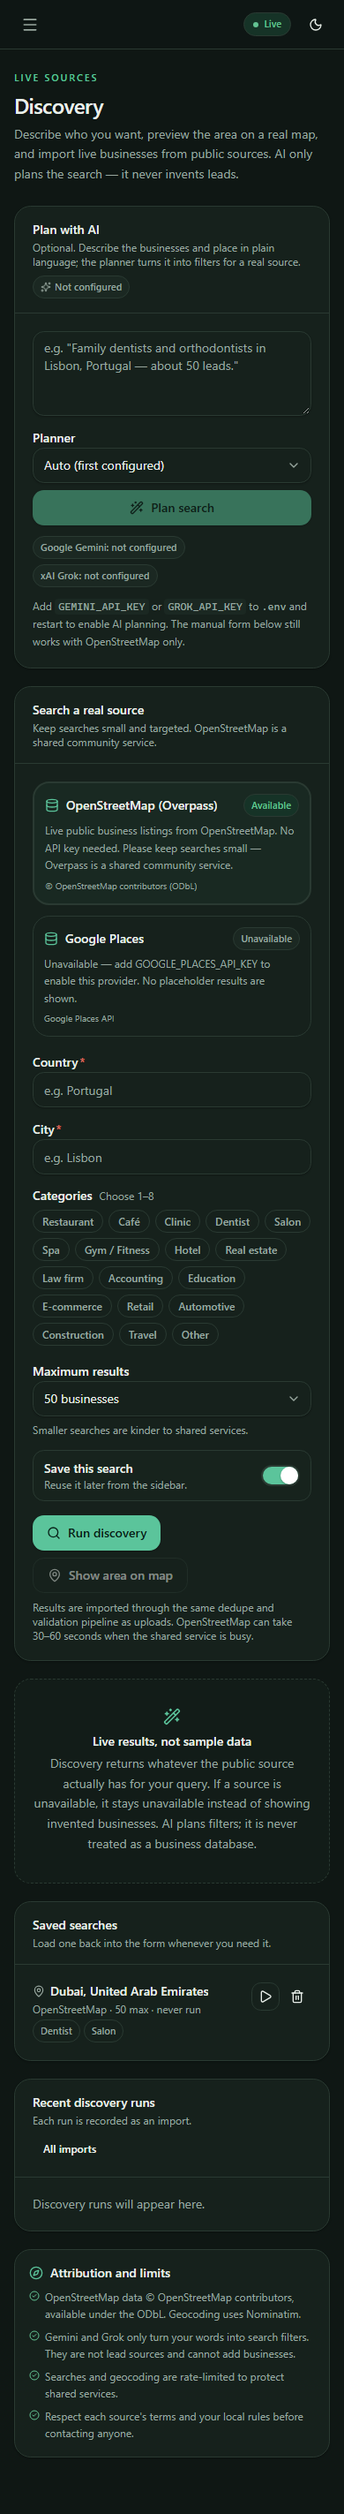
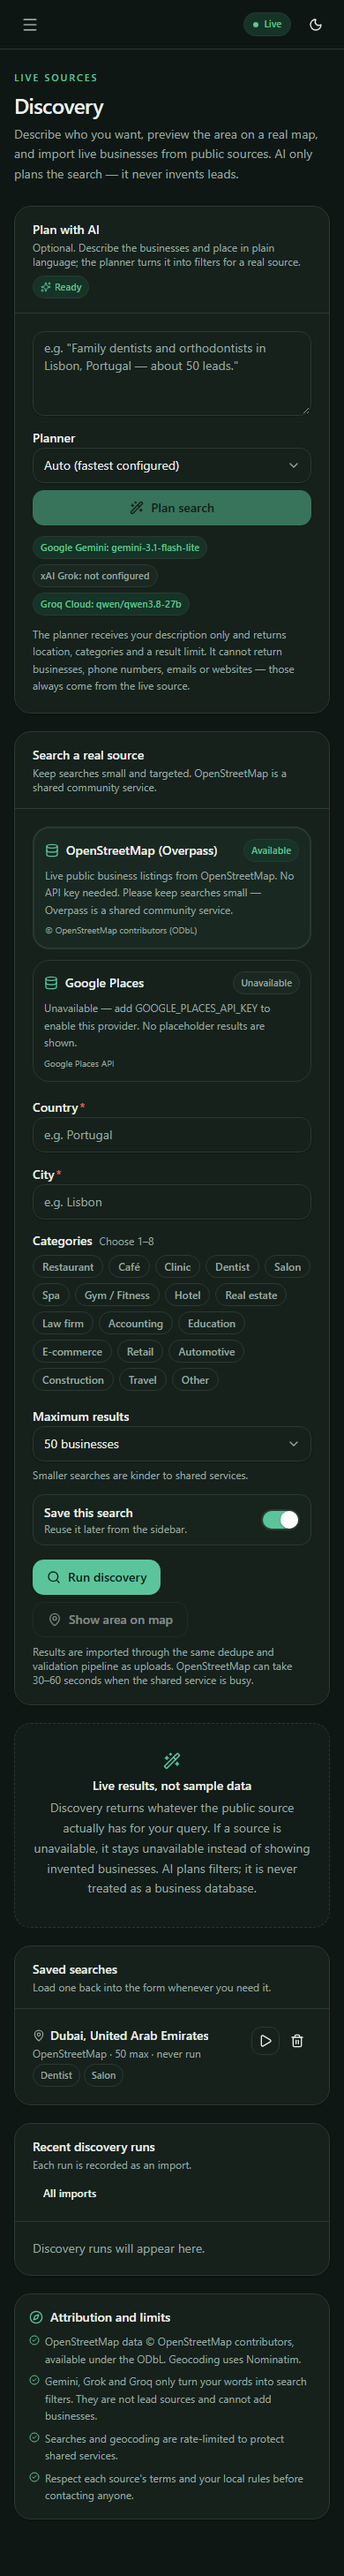
docs: cover Groq planner, model churn and refreshed screenshots
- document Gemini/Grok/Groq roles, auto order, fallback and env variables
- record the retired Gemini model, 503s and account-specific Groq model list
- update gate/test counts and regenerate 60 responsive screenshots

diff --git a/docs/PROGRESS.md b/docs/PROGRESS.md
@@ -17,13 +17,13 @@ Final result on 2026-11-04:
 | --- | --- |
 | `pnpm typecheck` | Pass (no output) |
 | `pnpm lint` | Pass, 0 errors. One non-blocking React Compiler warning for TanStack Table's `useReactTable` |
-| `pnpm test` | Pass — 10 files, 130 tests |
+| `pnpm test` | Pass — 10 files, 132 tests |
 | `pnpm build` | Pass — 41 app paths compiled |
 | `pnpm exec playwright test` | Pass — 16 tests (1 setup + 15 Chromium) |
 | Screenshots | 60 PNGs at 1440/1024/390, light/dark |
 | Live discovery | Overpass retry/cache path exercised; honest 502 message verified when the public service was at capacity |
 | Live map | Nominatim geocode returned Lisbon bounds; Leaflet loaded OSM tiles with no console errors |
-| AI planner | Correct 409 unavailable state with no keys; mocked Gemini request/response covered by tests |
+| AI planner | Live Gemini (`gemini-3.1-flash-lite`, 1.3–22.6s across calls) and Groq (`qwen/qwen3.8-27b`, 0.3–0.6s) returned validated filters; auto mode resolved in 0.3s via Groq; fallback/no-key paths covered by tests |
 
 ## Phases
 
@@ -40,7 +40,7 @@ Final result on 2026-11-04:
 | 8 | Discovery, export, events, settings, worker: OSM provider, Google availability state, CSV export, SSE, scan/import/score jobs | typecheck; production acceptance run |
 | 9 | UI: app shell, dashboard, leads, lead detail, duplicates, imports, discovery, scans, settings, scoring, login/setup | typecheck/lint; responsive review; screenshots |
 | 10 | Tests, acceptance, docs, demo seed, screenshots, git history | full gate + Playwright + acceptance |
-| 11 | Discovery resilience and AI/map: Overpass retries/fallback/cache, Gemini and Grok filter planners, Nominatim geocoding, Leaflet result map | full gate + live geocode/map check + honest upstream-failure check |
+| 11 | Discovery resilience and AI/map: Overpass retries/fallback/cache, Gemini, xAI Grok and Groq filter planners, Nominatim geocoding, Leaflet result map | full gate + live planner/geocode/map checks + honest upstream-failure check |
 
 ## Acceptance run
 
@@ -60,7 +60,7 @@ running and a freshly seeded demo workspace. Results from the API-level acceptan
 | Scans | 6 listed, outcomes `success` and `partial` |
 | Scoring profile | Active profile maximum exactly 100 |
 | Discovery providers | `osm:available`, `google_places:unavailable` (no key configured) |
-| AI planners | `gemini:unavailable`, `grok:unavailable` (no keys); `POST /api/discovery/plan` returns an honest 409 |
+| AI planners | Live with configured keys: Gemini (`gemini-3.1-flash-lite`) and Groq (`qwen/qwen3.8-27b`) returned validated filters; xAI Grok remains unconfigured; the no-key 409 path stays covered by tests |
 | Geocoding | `GET /api/discovery/geocode?q=Lisbon, Portugal` returned 200 with bounds and two matches |
 | Map | Leaflet container loaded 8 OSM tiles; no browser console errors |
 | Overpass failure path | Public server returned 502 "at capacity"; the app reported attempts, mirror hint and no saved rows |
@@ -74,7 +74,7 @@ demo workspace deterministic. No acceptance data was written to a real workspace
 
 | Suite | Files | Tests | Notes |
 | --- | --- | --- | --- |
-| Vitest | 10 | 130 | Unit + integration against real PostgreSQL for isolation |
+| Vitest | 10 | 132 | Unit + integration against real PostgreSQL for isolation |
 | Playwright | 9 specs | 16 | 1 auth setup, 15 browser tests |
 
 Vitest files:
@@ -87,8 +87,8 @@ Vitest files:
 - `tests/fetch.test.ts` — robots, timeouts, pinned DNS, fixture server behaviour
 - `tests/import.test.ts` — CSV/TSV/GeoJSON/ZIP parsing and archive safety
 - `tests/discovery.test.ts` — Overpass retry, remark errors, cache and honest failure
-- `tests/planner.test.ts` — category aliases, plan validation, Gemini request shape,
-  unconfigured-planner behaviour, Nominatim parsing
+- `tests/planner.test.ts` — category aliases, plan validation, Gemini and Groq request
+  shapes, auto-mode fallback, unconfigured-planner behaviour, Nominatim parsing
 - `tests/isolation.test.ts` — workspace isolation, dedupe-by-host, scan-outcome filter,
   merge/undo preservation
 
@@ -191,6 +191,23 @@ has no business/contact fields. Unsupported categories are dropped with a visibl
 missing locations are rejected, and Google Places plans fall back to OpenStreetMap when no
 key is configured. The models never generate rows in the lead table.
 
+### AI planner model names changed under us
+
+The first live Gemini call failed with HTTP 404: `gemini-2.5-flash` is retired for new
+keys and the API recommended `gemini-3.8-flash`. That newer model, plus `gemini-3.7-flash`,
+`gemini-3.6-flash`, `gemini-3.5-flash` and `gemini-flash-latest`, were returning 503
+"high demand" or taking over a minute during the check, so the default became
+`gemini-3.1-flash-lite`, which returned valid JSON. Its latency still varied a lot across
+calls (1.3–22.6 seconds), which is why `auto` prefers Groq. All model names stay
+environment-configurable.
+
+The supplied "Groq" key (`gsk_...`) is Groq Cloud, not xAI Grok (`xai-...`). Groq is now a
+third first-class planner using its OpenAI-compatible endpoint. Its account did not expose
+`llama-3.3-70b-versatile`; `qwen/qwen3.8-27b` answered in about 0.3 seconds, so that is the
+default. In `auto` mode the app now tries Groq first for speed, then Gemini and Grok, and
+falls back to the next configured planner when one fails and shows a fallback note in the
+plan, rather than making the user retry manually.
+
 ### Map integration and CSP
 
 Leaflet is imported only in the browser and uses vector circle markers, so no marker image
@@ -212,8 +229,8 @@ confirmed 8 tiles loaded with no console errors.
   owner workspace stays clean.
 - `db:reset` requires explicit confirmation and refuses production.
 - The app name comes from `NEXT_PUBLIC_APP_NAME`, default `Lead Finder`.
-- Gemini/Grok are search planners only. Real leads always come from Overpass or Google
-  Places; the planner schema cannot carry business records.
+- Gemini, xAI Grok and Groq are search planners only. Real leads always come from Overpass
+  or Google Places; the planner schema cannot carry business records.
 - Public Overpass reliability is outside the app's control, so the app retries, falls back
   to configured mirrors, caches and reports failures honestly instead of inventing data.
 - `leaflet` is the only new runtime dependency for maps; tiles come directly from

diff --git a/README.md b/README.md
@@ -18,10 +18,10 @@ human reviews and works through.
 - **Import** CSV, TSV, GeoJSON and ZIP uploads with column mapping, preview, row-level
   error reporting, duplicate detection, undo-safe merges and cancellation.
 - **Discover** businesses from OpenStreetMap (Overpass API) and, when a key is present,
-  Google Places. Optional Gemini or Grok planning turns plain language into validated
-  search filters — the models never supply leads. A Leaflet/OpenStreetMap map previews the
-  search area and plots real result coordinates. Providers are honest about availability;
-  there are no placeholder results.
+  Google Places. Optional Gemini, xAI Grok or Groq planning turns plain language into
+  validated search filters — the models never supply leads. A Leaflet/OpenStreetMap map
+  previews the search area and plots real result coordinates. Providers are honest about
+  availability; there are no placeholder results.
 - **Scan** public websites with a hardened fetcher: SSRF/DNS-rebinding protection,
   redirect re-validation, `robots.txt` checks, per-host politeness delays, timeouts, body
   size caps and a fixed user agent.
@@ -144,8 +144,9 @@ All variables are documented in [`.env.example`](.env.example). The most importa
 | `OVERPASS_CACHE_MINUTES` | `60` | In-memory cache for identical queries |
 | `GOOGLE_PLACES_API_KEY` | empty | Empty means the provider reports unavailable |
 | `GEOCODE_USER_AGENT` | scanner UA | Set a real contact for Nominatim in production |
-| `GEMINI_API_KEY` / `GEMINI_MODEL` | empty / `gemini-2.5-flash` | Optional AI search planner |
-| `GROK_API_KEY` / `GROK_MODEL` | empty / `grok-4` | Optional AI search planner |
+| `GEMINI_API_KEY` / `GEMINI_MODEL` | empty / `gemini-3.1-flash-lite` | Optional AI search planner |
+| `GROK_API_KEY` / `GROK_MODEL` | empty / `grok-4` | Optional xAI Grok planner |
+| `GROQ_API_KEY` / `GROQ_MODEL` | empty / `qwen/qwen3.8-27b` | Optional Groq Cloud planner (not xAI Grok) |
 | `PG_BOSS_SCHEMA` | `pgboss` | Job queue schema |
 | `LOG_LEVEL` | `info` | pino level |
 
@@ -155,8 +156,8 @@ Production startup refuses to run with the development auth secret or with
 ## Discovery, AI planning and maps
 
 Discovery has two real sources: OpenStreetMap (no key) and Google Places (key required).
-Search `/discovery` manually, or describe what you want and let Gemini/Grok produce a
-plan:
+Search `/discovery` manually, or describe what you want and let Gemini, xAI Grok or Groq
+produce a plan:
 
 1. The planner returns only `country`, `city`, categories (1–8), a result limit and a
    target provider. It has no schema fields for businesses, contacts or websites.
@@ -164,9 +165,11 @@ plan:
 3. Running the plan calls the live source, imports through the normal dedupe pipeline
    and plots returned coordinates on the OpenStreetMap map.
 
-If no AI key is set, the planner card says so and manual discovery still works. If
-Overpass is overloaded, the app retries, tries `OVERPASS_ENDPOINTS` mirrors in order and
-returns an honest error with the attempt count. Nothing is saved on failure.
+If no AI key is set, the planner card says so and manual discovery still works. `auto`
+prefers Groq for speed, then Gemini, then Grok, and transparently falls back if a planner
+fails (the plan preview shows which model was used). If Overpass is overloaded, the app
+retries, tries `OVERPASS_ENDPOINTS` mirrors in order and returns an honest error with the
+attempt count. Nothing is saved on failure.
 
 Maps use Leaflet with OpenStreetMap tiles. Geocoding uses Nominatim with a 1 request/second
 throttle and caching. Positions are source coordinates, not verified addresses. Set

diff --git a/docs/ARCHITECTURE.md b/docs/ARCHITECTURE.md
@@ -227,7 +227,7 @@ There is no generated/placeholder provider. If a source fails, the run reports t
 failure; it does not substitute fake businesses. Saved searches let a user repeat a
 query; runs are recorded and marked.
 
-### AI search planner (Gemini / Grok)
+### AI search planner (Gemini / Grok / Groq)
 
 `POST /api/discovery/plan` turns a plain-language request into validated filters:
 country, city, 1-8 category keys, a result limit and a target provider. The model
@@ -236,10 +236,15 @@ a data source: the response schema has no fields for business names, addresses, 
 emails or websites, and the app rejects anything outside the filter shape. The resulting
 filters must still be run through Overpass or Google Places.
 
-Gemini uses `GEMINI_MODEL` (default `gemini-2.5-flash`). Grok uses the OpenAI-compatible
-`GROK_BASE_URL` (default `https://api.x.ai/v1`) and `GROK_MODEL` (default `grok-4`).
-`auto` picks the first configured planner. Missing keys produce an honest unavailable
-state; manual discovery keeps working without AI.
+Gemini uses `GEMINI_MODEL` (default `gemini-3.1-flash-lite`). xAI Grok uses the
+OpenAI-compatible `GROK_BASE_URL` (default `https://api.x.ai/v1`) and `GROK_MODEL`
+(default `grok-4`). Groq Cloud is a separate provider: `GROQ_BASE_URL` (default
+`https://api.groq.com/openai/v1`) and `GROQ_MODEL` (default `qwen/qwen3.8-27b`).
+`auto` prefers Groq (fastest verified planner), then Gemini, then Grok. If a planner fails,
+auto mode tries the next configured one and puts a visible fallback note in the plan; an
+explicitly chosen planner reports its own failure instead. Missing keys produce an honest
+unavailable state; manual discovery keeps working without AI. Model names change
+frequently, so all three are environment-configurable.
 
 ### Map and geocoding
 
@@ -294,7 +299,7 @@ server. Imports and scans require it to be running.
 
 ## Test strategy
 
-- **Vitest (130 tests, 10 files):** normalisation, dedupe policy, scoring engine,
+- **Vitest (132 tests, 10 files):** normalisation, dedupe policy, scoring engine,
   extraction, SSRF/security, import/ZIP parsing, discovery retry/cache, AI plan
   validation and geocode parsing, fetcher fixture server and workspace isolation. The
   isolation file hits a real PostgreSQL database.

diff --git a/docs/KNOWN_LIMITATIONS.md b/docs/KNOWN_LIMITATIONS.md
@@ -105,10 +105,10 @@ limitation affects a user decision, the UI is expected to say so honestly.
 
 ## AI planning and maps
 
-39. **Gemini and Grok are optional planners, not data sources.** They receive the user's
-    description and return only country, city, categories, a limit and a target provider.
-    They cannot add businesses, contacts or websites. Without a key, the planner card says
-    so and manual discovery remains available.
+39. **Gemini, xAI Grok and Groq are optional planners, not data sources.** They receive
+    the user's description and return only country, city, categories, a limit and a target
+    provider. They cannot add businesses, contacts or websites. Without a key, the planner
+    card says so and manual discovery remains available.
 40. **Plans can be imperfect.** The app validates and normalises the model's output
     (category aliases, 1–8 categories, 1–200 results) and rejects missing locations, but a
     plan may still be too broad or miss a niche category. Review the filters before
@@ -127,6 +127,12 @@ limitation affects a user decision, the UI is expected to say so honestly.
 44. **Google Places result caps apply.** Text Search returns at most 20 places per request;
     the app does not paginate for more. Its terms and billing are the key owner's
     responsibility.
+45. **AI model names and availability change.** Gemini retired `gemini-2.5-flash` for new
+    keys during this build, newer Flash models can return 503 under load, and Groq's
+    account-specific model list varies. Defaults are configurable via `GEMINI_MODEL`,
+    `GROK_MODEL` and `GROQ_MODEL`; `auto` falls back to another configured planner and says
+    so in the plan. An explicitly selected planner that fails reports the upstream error
+    rather than silently switching.
 
 ## Product boundary
 

diff --git a/docs/QUESTIONS.md b/docs/QUESTIONS.md
@@ -47,9 +47,11 @@ from the defaults below, the affected areas should be revised and the audit re-r
 9. **OpenStreetMap** — the public Overpass endpoint is the default. For heavy use, a
    self-hosted or commercial Overpass instance is advisable. Do you have one? If you have
    a reliable mirror URL, add it to `OVERPASS_ENDPOINTS`.
-10. **Gemini / Grok** — both planners are implemented but stay unavailable until
-    `GEMINI_API_KEY` or `GROK_API_KEY` is set. Which account should be used, and is there a
-    preferred default model or spend cap? `auto` currently prefers Gemini.
+10. **Gemini / Grok / Groq** — all three planners are implemented. Gemini and Groq were
+    configured and verified live during the build; xAI Grok remains available but needs a
+    `GROK_API_KEY`. Which accounts should be the long-term defaults, and is there a spend
+    cap or preferred model? `auto` currently prefers Groq (fastest), then Gemini, then
+    Grok, and falls back when one fails.
 11. **Map preview** — the app uses Leaflet with public OpenStreetMap tiles and Nominatim
     geocoding. For high-traffic deployment, should tiles/geocoding move to a paid provider
     or a self-hosted instance? Set `GEOCODE_USER_AGENT` to a real contact either way.
